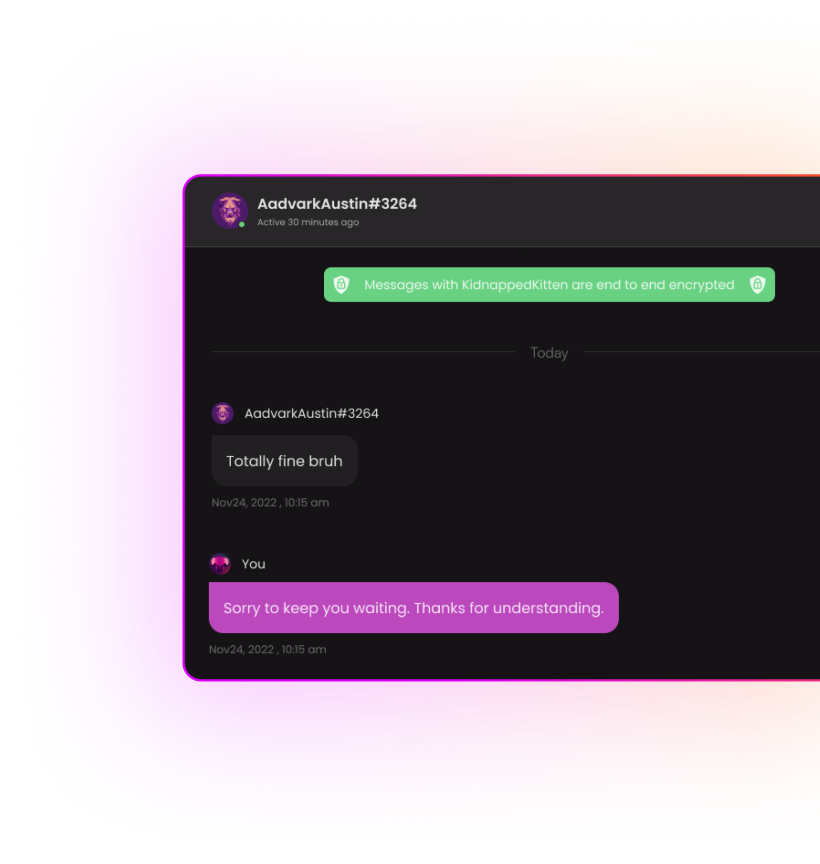
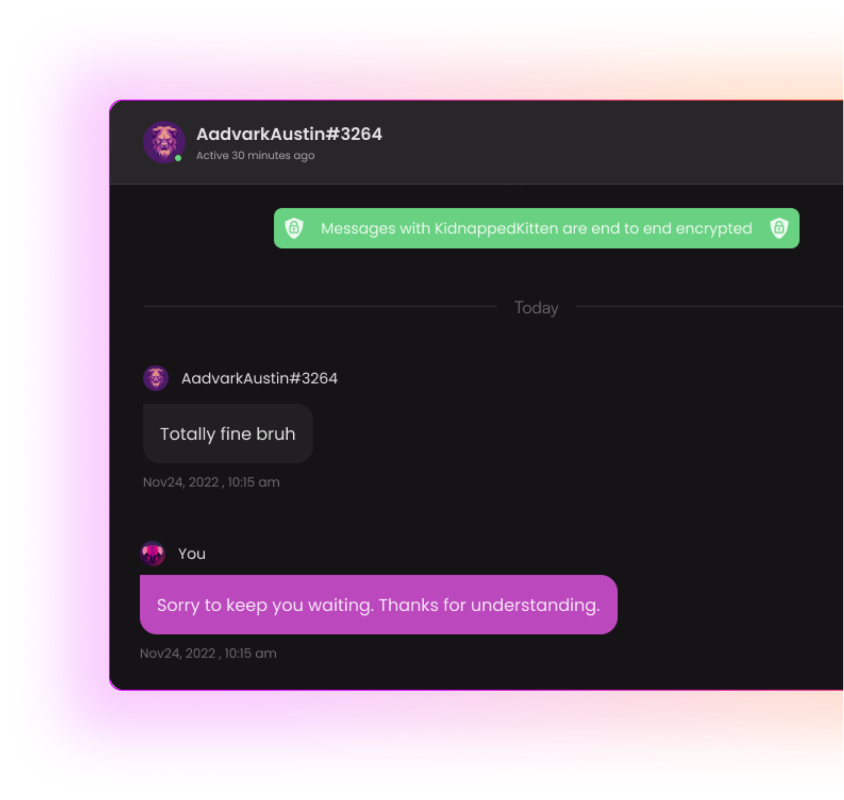
char: assets

diff --git a/src/views/HomeView.vue b/src/views/HomeView.vue
@@ -258,8 +258,13 @@
                   class="relative overflow-hidden rounded-3xl md:w-[600px] xl:w-[800px]"
                 >
                   <img
-                    class="-top-20 -left-14 xl:absolute xl:h-[600px]"
+                    class="-top-20 -left-14 xl:absolute xl:h-[600px] block md:hidden"
                     src="../assets/whyimage4.png"
+                    alt="encryption"
+                  />
+                  <img
+                    class="-top-20 -left-14 xl:absolute xl:h-[600px] hidden md:block"
+                    src="../assets/whyimage4d.png"
                     alt="encryption"
                   />
                 </div>
@@ -269,7 +274,7 @@
         </div>
 
         <!-- Features section -->
-        <div class="mt-[56px]">
+        <div class="mt-[100px]">
           <div>
             <SubHeading>Features</SubHeading>
           </div>
@@ -292,7 +297,7 @@
                   src="../assets/Consolidatedinbox.png"
                   alt=""
                   class="mr-3 md:h-[48px] md:w-[48px]"
-                />Consolidated Inbox
+                />Consolidated Inbox``
               </div>
               <div class="text-sm font-normal leading-6">
                 With our consolidated inbox, you can easily view and manage all
